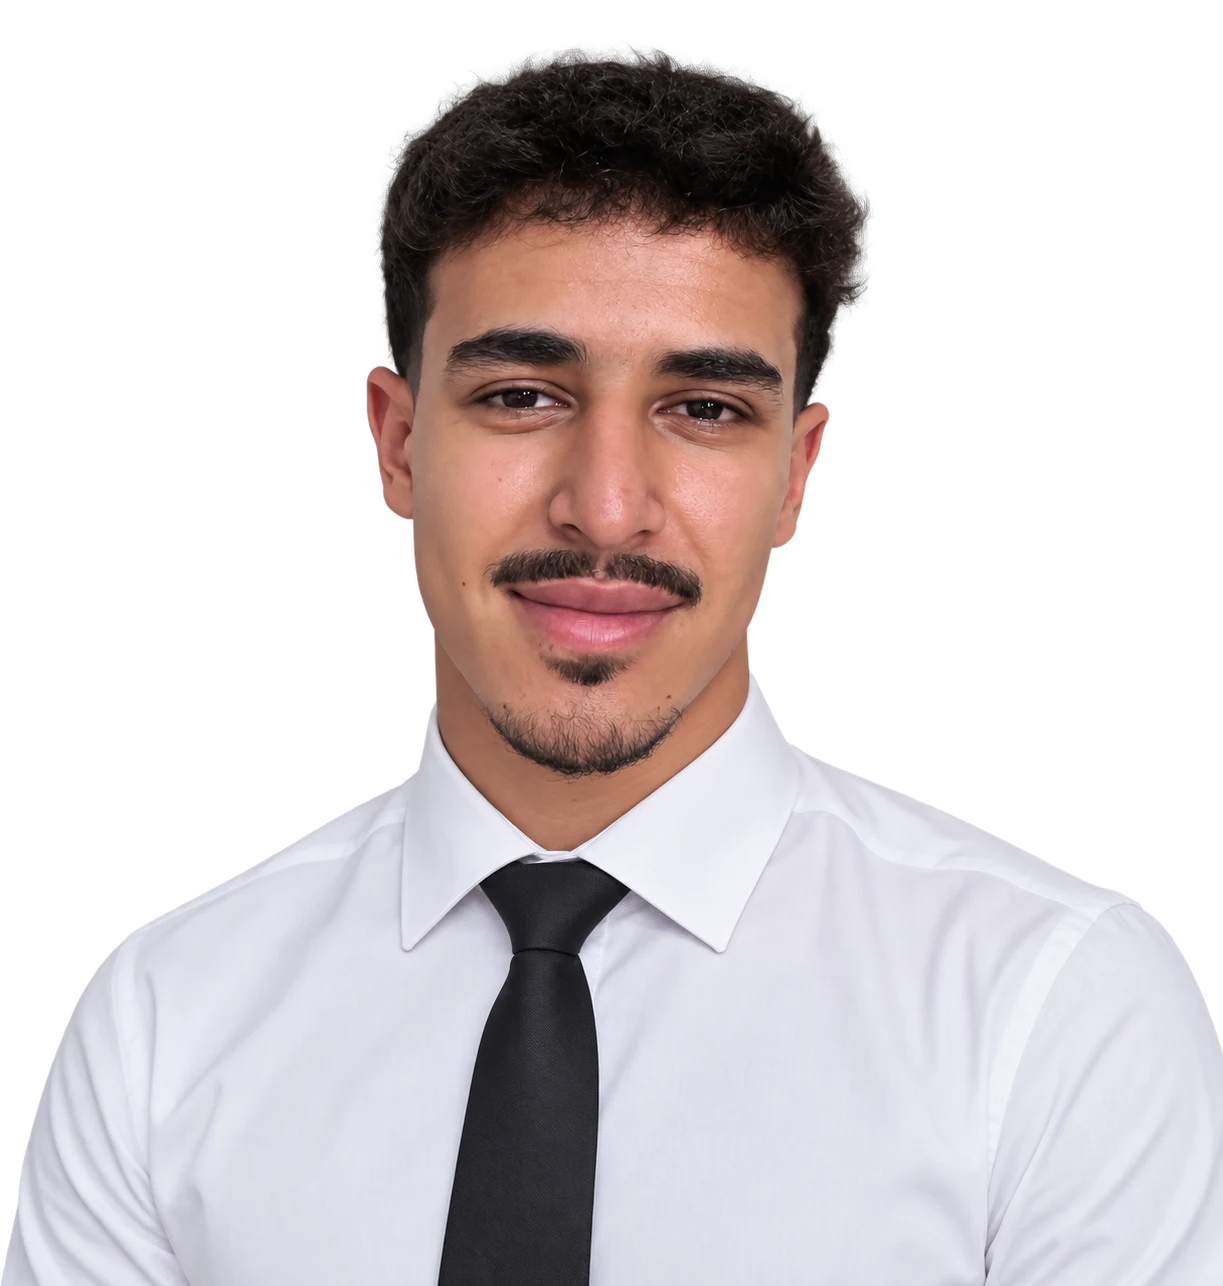
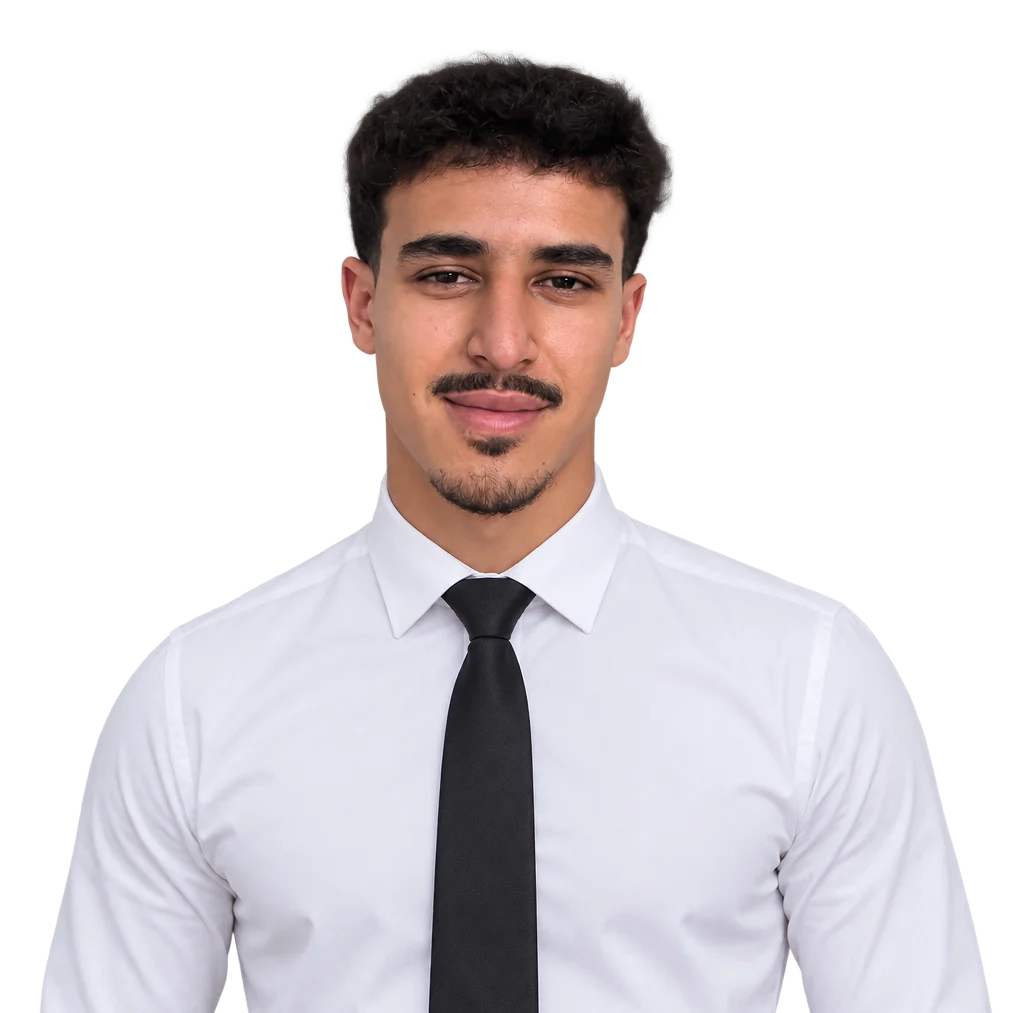
New portrait and new animation of technos

Changed region(s): [[0.0, 0.0306, 1.0, 1.0], [0.6752, 0.7345, 0.8594, 1.0], [0.2455, 0.7038, 0.2762, 0.7345]]

diff --git a/scripts/script.js b/scripts/script.js
@@ -867,6 +867,40 @@ window.addEventListener("resize", () => {
   /* checkResolutionAndNotify(); */
 });
 
+const techTrack = document.querySelector(".technos-inner");
+
+if (techTrack) {
+  let direction = -1;
+  const speed = 0.8;
+
+  function runTechMarquee() {
+    /* if (window.innerWidth < 828) {
+      techTrack.scrollLeft = 0;
+      requestAnimationFrame(runTechMarquee);
+      return;
+    } */
+
+    const maxScroll = techTrack.scrollWidth - techTrack.clientWidth;
+    const minScroll = -maxScroll;
+
+    const nextPosition = techTrack.scrollLeft + direction * speed;
+
+    if (nextPosition <= minScroll) {
+      techTrack.scrollLeft = minScroll;
+      direction = 1;
+    } else if (nextPosition >= 0) {
+      techTrack.scrollLeft = 0;
+      direction = -1;
+    } else {
+      techTrack.scrollLeft = nextPosition;
+    }
+
+    requestAnimationFrame(runTechMarquee);
+  }
+
+  requestAnimationFrame(runTechMarquee);
+}
+
 function openEducation(num) {
   document.getElementById("protection").style.display = "block";
   if (num == 1) {
